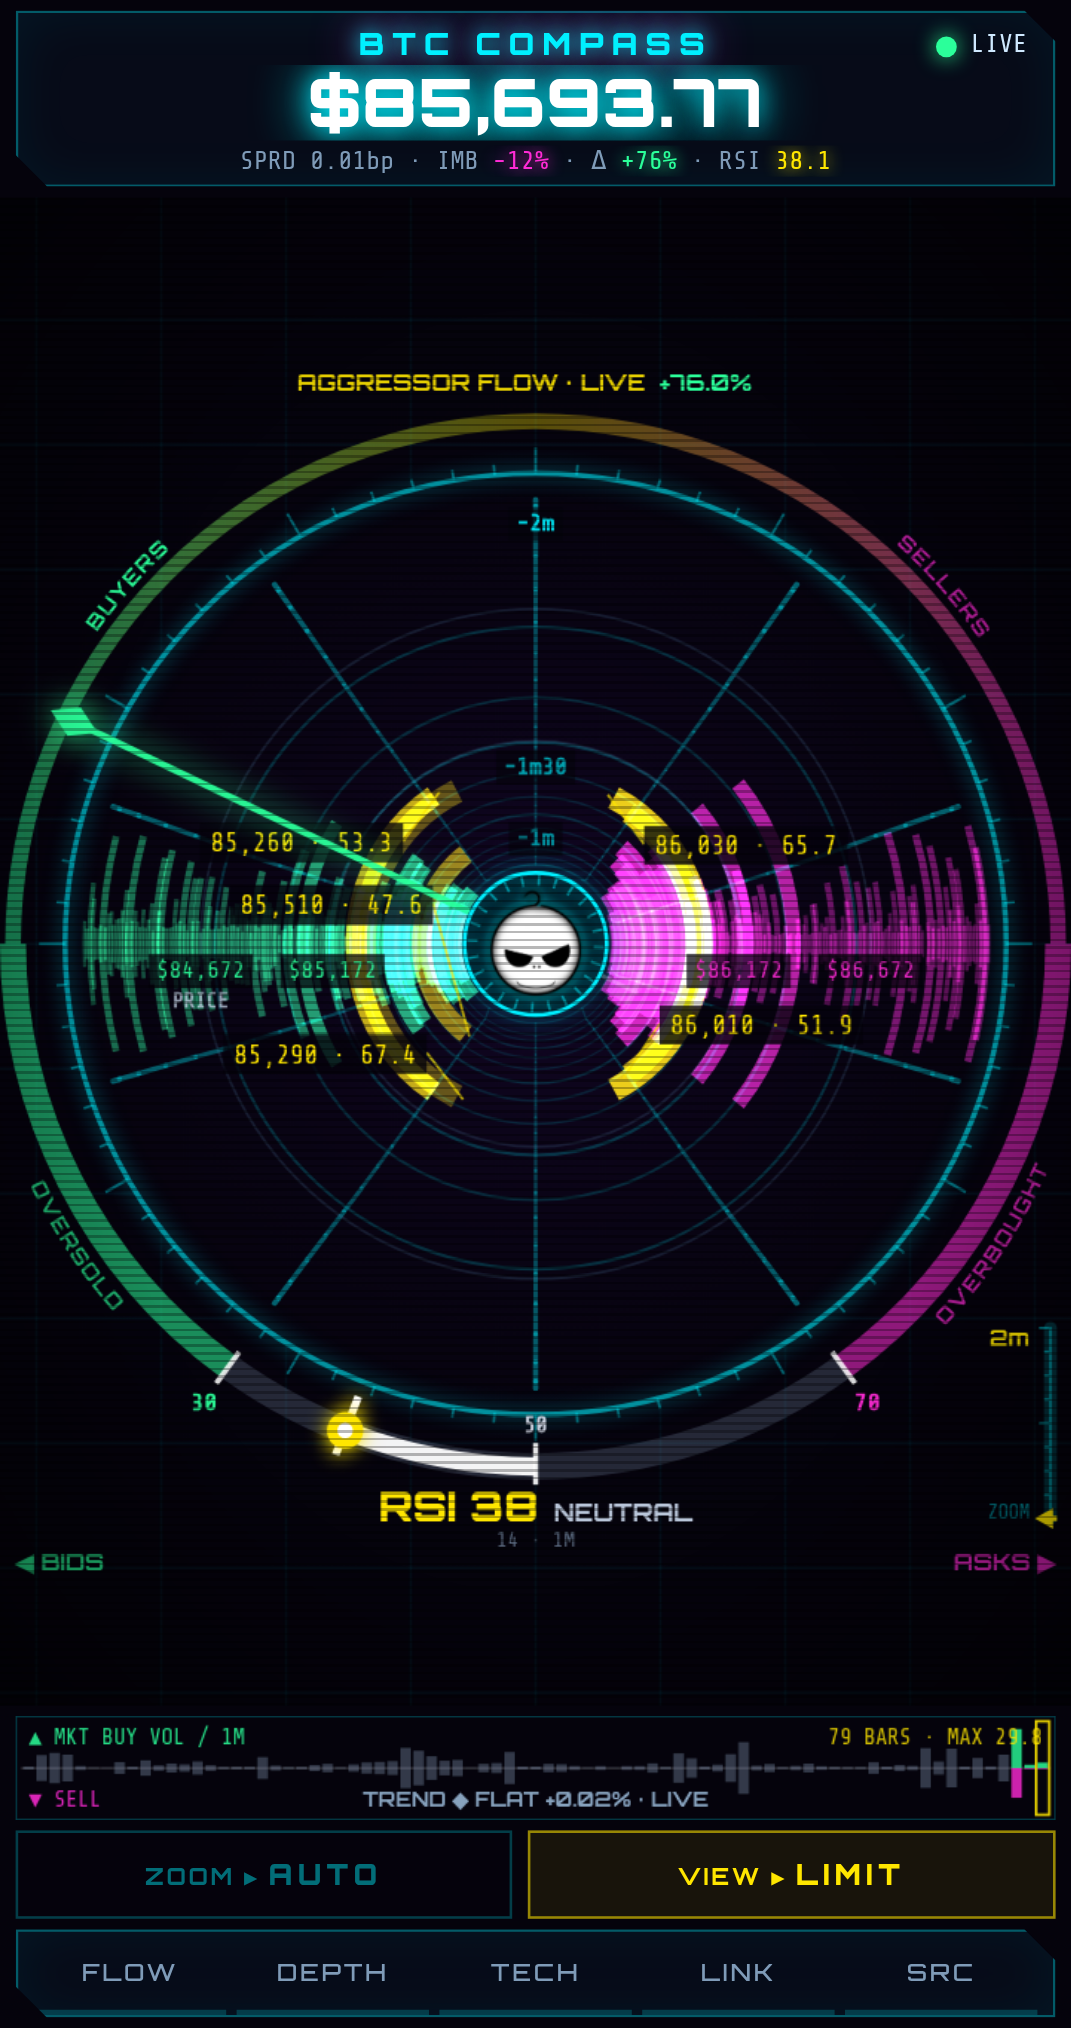
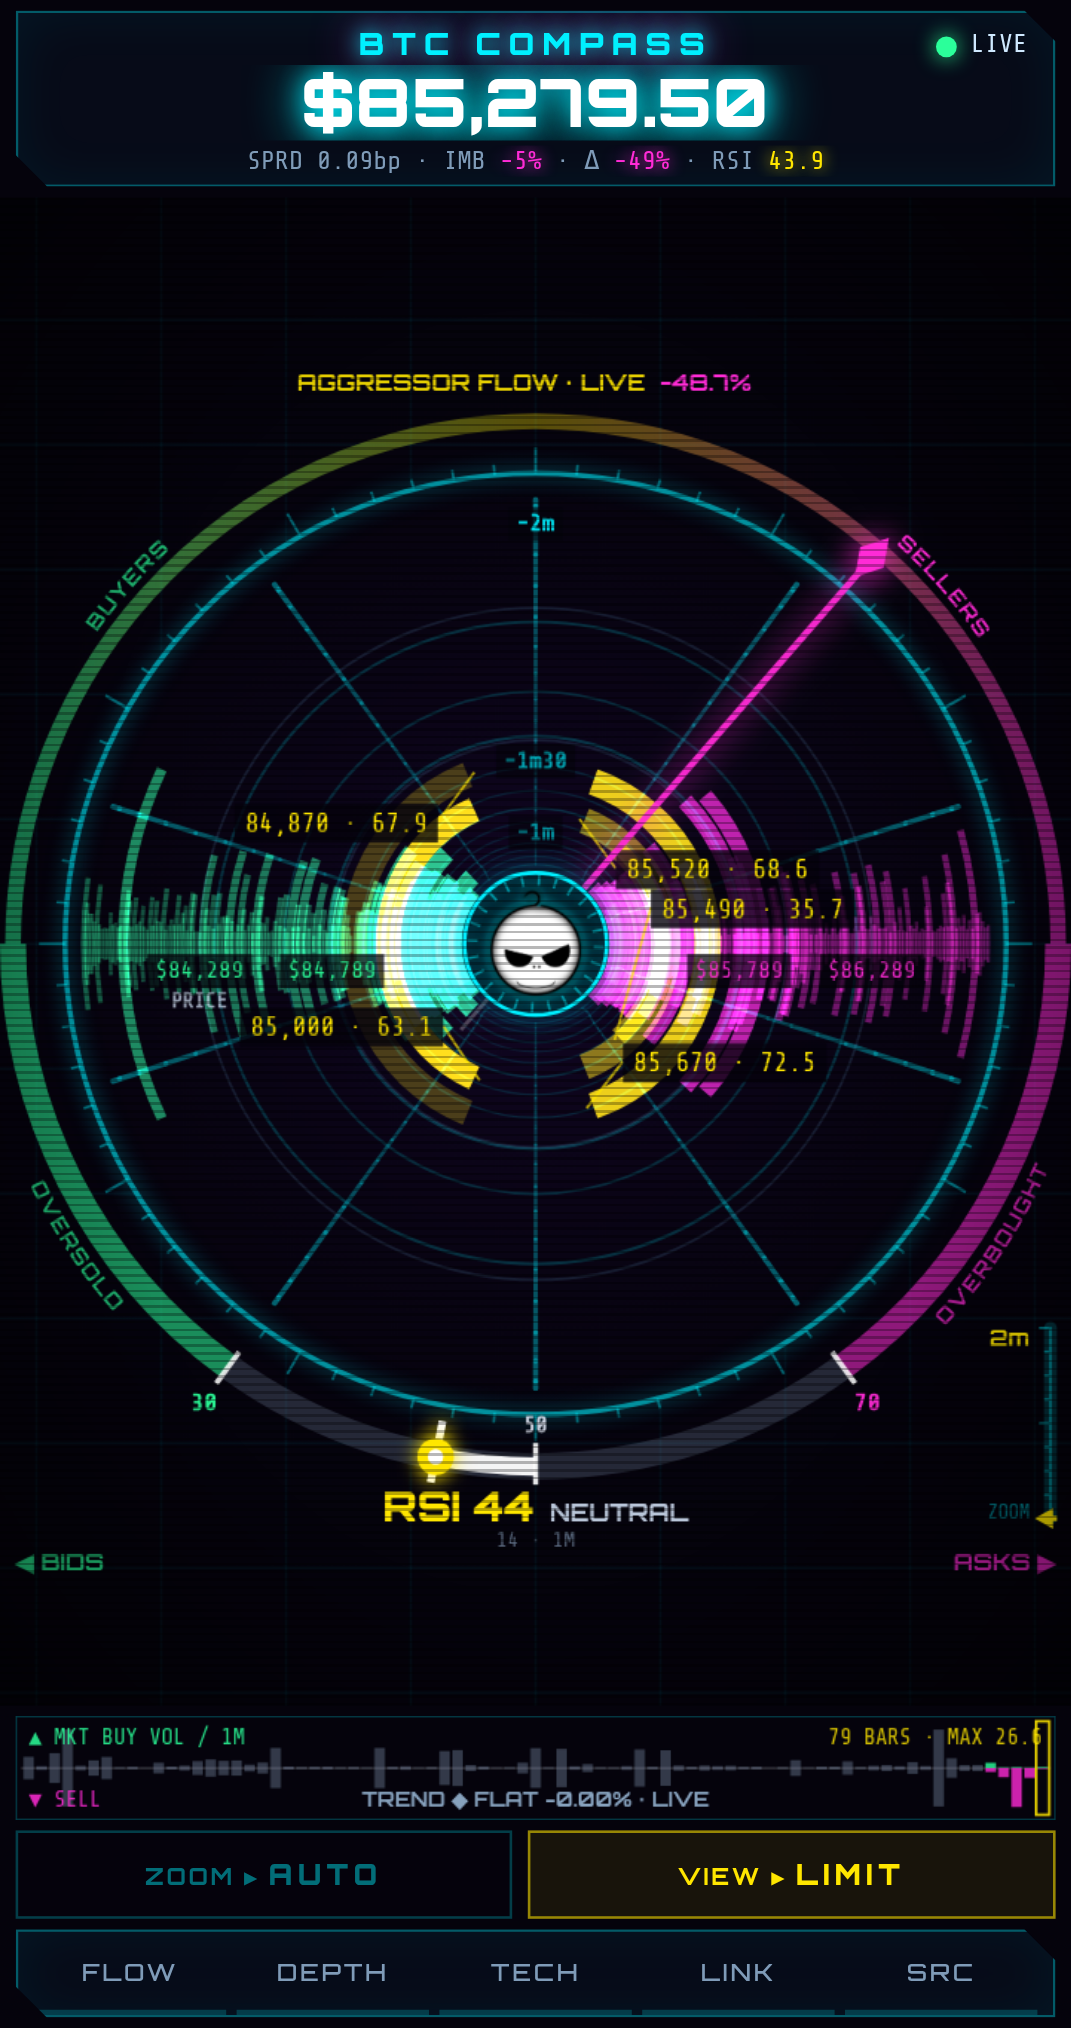
MARKET: burst sparks, thicker trail glow, symmetric AUTO vortex response; AUTO off -> zoom fully out

diff --git a/index.html b/index.html
@@ -3,7 +3,7 @@
 <head>
 <meta charset="utf-8">
 <meta http-equiv="Cache-Control" content="no-cache, no-store, must-revalidate"><meta http-equiv="Pragma" content="no-cache"><meta http-equiv="Expires" content="0">
-<script>window.OFC_BUILD='20261002-1106';(function(){try{if(!/^https?:/.test(location.protocol))return;fetch(location.pathname+'?_='+Date.now(),{cache:'no-store'}).then(r=>r.text()).then(t=>{const m=t.match(/OFC_BUILD='([^']+)'/);if(m&&m[1]!==window.OFC_BUILD&&sessionStorage.getItem('ofcB')!==m[1]){sessionStorage.setItem('ofcB',m[1]);location.replace(location.pathname+'?v='+m[1]+location.hash);}}).catch(()=>{});}catch(e){}})();</script>
+<script>window.OFC_BUILD='20261002-1220';(function(){try{if(!/^https?:/.test(location.protocol))return;fetch(location.pathname+'?_='+Date.now(),{cache:'no-store'}).then(r=>r.text()).then(t=>{const m=t.match(/OFC_BUILD='([^']+)'/);if(m&&m[1]!==window.OFC_BUILD&&sessionStorage.getItem('ofcB')!==m[1]){sessionStorage.setItem('ofcB',m[1]);location.replace(location.pathname+'?v='+m[1]+location.hash);}}).catch(()=>{});}catch(e){}})();</script>
 <meta name="viewport" content="width=device-width,initial-scale=1,viewport-fit=cover,user-scalable=no">
 <meta name="theme-color" content="#05030c">
 <meta name="color-scheme" content="dark">
@@ -247,6 +247,8 @@ const book={bids:new Map(), asks:new Map(), ready:false};
 let sortedB=[], sortedA=[];                 // COMBINED [[p,q]] bids desc, asks asc (all venues or the selected one)
 let kB=[], kA=[];                           // Kraken's own book (for its CRC32 checksum)
 let mid=0, dispMid=0, bestBid=0, bestAsk=0;
+let SIM={on:false,base:0,t0:0,dir:0,amp:0,ramp:1};const simOff=()=>SIM.dir?SIM.dir*SIM.amp*Math.min(1,Math.max(0,(Date.now()-SIM.t0)/SIM.ramp)):0;
+const simPx=p=>SIM.on?SIM.base+simOff():p;   // test-only: replace prices with a synthetic flat/ramp path   // test-only synthetic price move (0 unless __ofc.simMove)
 let trades=[];                              // {t,side,qty,px}
 let bubbles=[];                             // {t,side,qty,px,ang,whale,usd}
 let sparks=[], shocks=[];
@@ -400,11 +402,11 @@ function processTrades(list,replay){
   // aggregate fills of one batch by side+price (Bookmap-style)
   const agg=new Map();
   for(const t of list){
-    const side=t.side, px=t.px, qty=t.qty, ts=t.ts;
+    const side=t.side, px=simPx(t.px), qty=t.qty, ts=t.ts;
     if(addSplit(t.v+':'+t.id,ts,side,qty,px)===false)continue;
     trades.push({t:Math.min(ts,dnow),side,qty,px,v:t.v});
     heatAdd(px,side,qty,Math.max(0,(dnow-ts)/1000));
-    if(!replay&&dnow-ts<3000){impacts.push({t:pnow,px,side,qty});if(impacts.length>60)impacts.shift();}
+    if(!replay&&dnow-ts<3000){impacts.push({t:pnow,px,side,qty,life:burst.on?1150:700,bu:burst.on});if(impacts.length>60)impacts.shift();}
     if(!replay){tradeCount++; lastTrade={side,px,qty,v:t.v};}
     const k=side+px; const a=agg.get(k);
     if(a){a.qty+=qty;}else agg.set(k,{side,px,qty,id:hashStr(t.v+t.id),ts,v:t.v});
@@ -468,7 +470,7 @@ function combine(){
   sortedB=[...bm.entries()].filter(x=>x[0]<M).sort((x,y)=>y[0]-x[0]);sortedA=[...am.entries()].filter(x=>x[0]>M).sort((x,y)=>x[0]-y[0]);
   if(sortedB.length>200)sortedB.length=200;if(sortedA.length>200)sortedA.length=200;
   if(!sortedB.length||!sortedA.length||!rb||ra===Infinity){BREADY=false;return;}
-  bestBid=rb;bestAsk=ra;mid=one?(rb+ra)/2:M;if(!dispMid)dispMid=mid;BREADY=true;
+  bestBid=rb;bestAsk=ra;mid=simPx(one?(rb+ra)/2:M);if(!dispMid)dispMid=mid;BREADY=true;
 }
 setInterval(()=>{if(combDirty)combine();},LOWDEV()?250:150);
 function LOWDEV(){return matchMedia('(pointer:coarse)').matches;}
@@ -1277,7 +1279,7 @@ function drawTrail(now){
     const r=RMAX*KO*s+off, th=ang(age);   // head (f=0) = newest trade -> off 0 -> rides the outer ring
     let x=p.x+Math.cos(th)*r, y=p.y+Math.sin(th)*r;
     {const dx=x-CX,dy=y-CY,d=Math.hypot(dx,dy),m=RMAX*0.995,k0=0.9*m;if(d>k0){const dd=k0+(m-k0)*Math.tanh((d-k0)/(m-k0));x=CX+dx*dd/d;y=CY+dy*dd/d;}}   // soft outer edge
-    if(WIG.length<4000)WIG.push(off);
+    if(WIG.length<4000)WIG.push(off); if(f===3||f===8)(window.__ofcR=window.__ofcR||{})['o'+f]=off;
     return {x,y,s,u};};
   const SUB=MWIN<=20?10:MWIN<=45?6:MWIN<=90?4:3, sub=a=>{const o=[];for(let j=0;j<=SUB;j++)o.push(pt(a+j/SUB));return o;};
   const P=[];for(let a=0;a<=NW;a++)P.push(pt(a));
@@ -1292,15 +1294,17 @@ function drawTrail(now){
   // centreline spine: thin continuous track that fades into the vanishing point
   ctx.lineWidth=1;
   const S=[];for(let a=0;a<P.length-1;a++)S.push(sub(a));
-  for(const [lw,al] of [[5,0.12],[1.4,0.7]]){ctx.lineWidth=lw;
+  for(const [lw,al] of (LOW?[[10,0.10],[4.5,0.16],[1.6,0.75]]:[[14,0.07],[8,0.12],[4,0.18],[1.6,0.75]])){ctx.lineWidth=lw*Math.max(0.8,RMAX/400);
     for(let a=0;a<S.length;a++){const q=S[a];ctx.strokeStyle=`rgba(0,240,255,${(al*Math.pow(P[a].u,0.8)).toFixed(3)})`;
       ctx.beginPath();ctx.moveTo(q[0].x,q[0].y);for(let j=1;j<q.length;j++)ctx.lineTo(q[j].x,q[j].y);ctx.stroke();}}
   // volume ribbon: colour = buy/sell dominance, width = volume; thins and fades with depth
   ctx.globalCompositeOperation='lighter';
   for(let a=P.length-2;a>=0;a--){const b=trail[a],v=b.bs+b.ss;if(v<=0)continue;
     const rel=Math.sqrt(v/vref),c=mixCol((b.bs-b.ss)/v),p0=P[a],p1=P[a+1],u=p0.u;if(u<=0.01)continue;
-    const ht=hot[a]; ctx.strokeStyle=rgba(c,Math.min(1,(0.4+0.45*rel+0.45*ht)*Math.pow(u,0.9)));ctx.lineWidth=(2.4+RMAX*0.07*rel+RMAX*0.05*ht)*(0.12+0.88*u);
-    if(Q>0&&(rel>0.35||ht>0.3)&&u>0.3){ctx.shadowColor=rgba(c,1);ctx.shadowBlur=(12*rel+18*ht*(0.7+0.3*pulse))*u;}else ctx.shadowBlur=0;
+    const ht=hot[a],LW=(2.4+RMAX*0.07*rel+RMAX*0.05*ht)*(0.12+0.88*u);
+    {const q=S[a];ctx.shadowBlur=0;ctx.strokeStyle=rgba(c,(0.16*Math.pow(u,0.9)).toFixed(3));ctx.lineWidth=LW*2.4+6*(0.3+0.7*u);ctx.beginPath();ctx.moveTo(q[0].x,q[0].y);for(let j=1;j<q.length;j++)ctx.lineTo(q[j].x,q[j].y);ctx.stroke();}   // wide soft glow underlay
+    ctx.strokeStyle=rgba(c,Math.min(1,(0.4+0.45*rel+0.45*ht)*Math.pow(u,0.9)));ctx.lineWidth=LW;
+    if(Q>0&&(rel>0.25||ht>0.3)&&u>0.3){ctx.shadowColor=rgba(c,1);ctx.shadowBlur=(18*rel+26*ht*(0.7+0.3*pulse))*u;}else ctx.shadowBlur=0;
     {const q=S[a];ctx.beginPath();ctx.moveTo(q[0].x,q[0].y);for(let j=1;j<q.length;j++)ctx.lineTo(q[j].x,q[j].y);ctx.stroke();}}
   ctx.shadowBlur=0;
   // bloom + twinkling sparks where the trail crosses the most-traded levels
@@ -1314,12 +1318,14 @@ function drawTrail(now){
     TRHOT.push({a,key:trailT-a*1000*trailStep,x:p.x,y:p.y,ht,u:p.u,px:b.Ps,v:HT[a],c:b.bs>=b.ss?COL.bid:[255,59,107]});}
   TRHEAD={x:P[0].x,y:P[0].y};TRP=P;
   // fresh prints burst as short sparks from the head (NOW)
-  impacts=impacts.filter(m=>now-m.t<700);
-  for(const m of impacts){const k=(now-m.t)/700,c=m.side==='buy'?COL.bid:COL.ask,big=Math.min(1,Math.sqrt(m.qty*(m.px||1)/whaleUSD));if(big<0.08)continue;
+  impacts=impacts.filter(m=>now-m.t<(m.life||700));
+  for(const m of impacts){const k=(now-m.t)/(m.life||700),c=m.side==='buy'?COL.bid:COL.ask,big=Math.min(1,Math.sqrt(m.qty*(m.px||1)/whaleUSD));if(big<0.08)continue;
     const th=(m.t*0.0137)%(Math.PI*2),d0=R0*(0.15+0.9*k),d1=d0+R0*(0.25+0.8*big)*(1-k),HX=TRHEAD.x,HY=TRHEAD.y;
-    ctx.strokeStyle=rgba(c,0.9*(1-k));ctx.lineWidth=1+2*big;ctx.shadowColor=rgba(c,1);ctx.shadowBlur=Q>0?10:0;
+    const BU=m.bu?1:0;ctx.strokeStyle=rgba(BU?[Math.min(255,c[0]+90),Math.min(255,c[1]+90),Math.min(255,c[2]+90)]:c,(BU?1:0.9)*(1-k));ctx.lineWidth=(1+2*big)*(1+0.8*BU);ctx.shadowColor=rgba(c,1);ctx.shadowBlur=Q>0?10+10*BU:0;
+    if(BU&&!m.sp){m.sp=1;spawnBP(m,c,big);}
     ctx.beginPath();ctx.moveTo(HX+Math.cos(th)*d0,HY+Math.sin(th)*d0);ctx.lineTo(HX+Math.cos(th)*d1,HY+Math.sin(th)*d1);ctx.stroke();}
   ctx.shadowBlur=0;
+  drawBP(now);
   // whale nodes: small bright dots along the trail
   trail.forEach((b,a)=>{if(!b.wh||a>=P.length)return;const p=P[a];if(p.u<=0.03)return;const c=b.wh.side==='buy'?COL.bid:COL.ask;
     const r=(1.8+Math.min(4,1.6*Math.sqrt(b.wh.usd/whaleUSD)))*(0.4+0.6*p.u);
@@ -1330,6 +1336,20 @@ function drawTrail(now){
   ctx.shadowBlur=0;ctx.globalCompositeOperation='source-over';
   ctx.restore();
 }
+// burst particles (MARKET, only while a volume burst is active): more, bigger, brighter, longer-lived sparks flung from the head
+let BP=[],BPt=0;
+function spawnBP(m,c,big){const n=Math.round((LOW?5:11)*(0.6+big)),sc=RMAX/400;
+  for(let i=0;i<n;i++){const a=Math.random()*Math.PI*2,v=(60+Math.random()*190)*sc*(0.7+0.6*big);
+    BP.push({x:TRHEAD.x,y:TRHEAD.y,vx:Math.cos(a)*v,vy:Math.sin(a)*v,t0:performance.now(),life:900+Math.random()*900,sz:(1.4+Math.random()*2.2)*(0.8+0.5*big)*Math.max(0.8,sc),c});}
+  const CAP=LOW?140:420;if(BP.length>CAP)BP.splice(0,BP.length-CAP);}
+function drawBP(now){const dt=BPt?Math.min(0.05,(now-BPt)/1000):0;BPt=now;if(!BP.length)return;
+  BP=BP.filter(p=>now-p.t0<p.life);const dr=Math.exp(-dt*1.6);
+  ctx.save();ctx.globalCompositeOperation='lighter';ctx.lineCap='round';
+  for(const p of BP){p.x+=p.vx*dt;p.y+=p.vy*dt;p.vx*=dr;p.vy*=dr;const k=(now-p.t0)/p.life,al=Math.pow(1-k,1.3),c=p.c;
+    const tx=p.x-p.vx*0.07,ty=p.y-p.vy*0.07;
+    ctx.strokeStyle=rgba(c,(0.35*al).toFixed(3));ctx.lineWidth=p.sz*3.2*(1-0.5*k);ctx.beginPath();ctx.moveTo(tx,ty);ctx.lineTo(p.x,p.y);ctx.stroke();   // soft glow
+    ctx.strokeStyle=`rgba(255,255,255,${(0.95*al).toFixed(3)})`;ctx.lineWidth=p.sz*(1-0.5*k);ctx.beginPath();ctx.moveTo(tx,ty);ctx.lineTo(p.x,p.y);ctx.stroke();}   // hot core
+  ctx.restore();}
 // glowing head (NOW) riding the compass's outer ring; drawn outside the dial clip, glow capped below the gauge arcs/ring labels
 // MARKET: hub + head tag both show the LAST trade (current source filter) so they always match; LIMIT hub = MID
 const hubPx=()=>VIEW==='market'&&trades.length?trades[trades.length-1].px:mid;
@@ -1390,7 +1410,7 @@ function drawZoomBar(now){
 // tap/drag the bar to set zoom (touch + mouse); stays out of pinch / double-tap handling
 let zDrag=false, pillT=0;
 function pillHit(px,py){const Z=zbarGeom();return !!(Z&&Z.pw&&px>Z.px-6&&px<Z.px+Z.pw+6&&py>Z.py-6&&py<Z.py+Z.ph+6);}
-function pillTap(){const n=performance.now();if(n-pillT<450)return;pillT=n;intro=null;if(rangeAuto)rangeFrac=dispRange;setAuto(!rangeAuto);syncZA();}
+function pillTap(){const n=performance.now();if(n-pillT<450)return;pillT=n;intro=null;if(rangeAuto)rangeFrac=ZMAX;setAuto(!rangeAuto);syncZA();}   // AUTO off -> ease to fully zoomed out (MARKET 60 s / LIMIT 2 m) until the user zooms
 function syncZA(){const b=$('zauto');if(b&&b.classList.contains('lit')!==rangeAuto)b.classList.toggle('lit',rangeAuto);}
 $('zauto').onclick=()=>{pillTap();};  // ON snaps back to auto-fit
 function zHit(px,py){const Z=zbarGeom();return Z&&Math.abs(px-Z.x)<18&&py>Z.y0-14&&py<Z.y1+8?Z:null;}
@@ -1472,13 +1492,13 @@ function frame(){
       if(intro.set!=null&&(rangeAuto||rangeFrac!==intro.set))intro=null;          // user zoomed (pinch/wheel/bar/double-tap) -> cancel
       else{if(!intro.t0)intro.t0=now; const p=Math.min(1,(now-intro.t0)/INTRO_MS), e=p<0.5?4*p*p*p:1-Math.pow(-2*p+2,3)/2;
         rangeAuto=false; rangeFrac=ZMIN*Math.pow(ZMAX/ZMIN,e); dispRange=rangeFrac; intro.set=rangeFrac; if(p>=1)intro=null;}}
-    if(!intro){if(VIEW==='market'&&rangeAuto){const ZE=burst.on?0.08:(Date.now()-burst.rel<7000?0.022:0.05);dispRange*=Math.exp(Math.log(rangeFrac/dispRange)*ZE);}else dispRange+=(rangeFrac-dispRange)*0.05;}   // MARKET AUTO: log-space ease (burst: quick snap in; release: slow ease out)   // burst: fast smooth snap in; release: slow ease out dispMid+=(mid-dispMid)*0.2;
+    if(!intro){if(VIEW==='market'&&rangeAuto){const ZE=(burst.on||rangeFrac<dispRange)?0.08:(Date.now()-burst.rel<7000?0.022:0.05);/* symmetric: price-driven zoom-in snaps exactly like a volume burst, so up/down react identically regardless of volume */dispRange*=Math.exp(Math.log(rangeFrac/dispRange)*ZE);}else dispRange*=Math.exp(Math.log(rangeFrac/dispRange)*0.06);}   // manual: log-space ease (window is log-mapped -> smooth)   // MARKET AUTO: log-space ease (burst: quick snap in; release: slow ease out)   // burst: fast smooth snap in; release: slow ease out dispMid+=(mid-dispMid)*0.2;
   }
   ctx.fillStyle='rgba(5,3,12,1)';ctx.fillRect(0,0,W,H);
   const bg=ctx.createRadialGradient(CX,CY,0,CX,CY,RMAX*1.6);bg.addColorStop(0,'rgba(30,10,60,.55)');bg.addColorStop(1,'rgba(5,3,12,0)');ctx.fillStyle=bg;ctx.fillRect(0,0,W,H);
   updateFocal(); MWIN=VIEW==='market'?mWinOf(dispRange):MWMAX; LWIN=VIEW==='limit'?lWinOf(dispRange):HIST_SEC;
   if(VIEW==='market'){ // vortex spin: eased speed 0..1 ramps with zoom (0 at 60 s -> 1 at 15 s; burst snap in AUTO = 1); counter-clockwise (head runs clockwise)
-    const zr=Math.max(0,Math.min(1,(MWMAX-MWIN)/(MWMAX-WMIN))), zk=zr*zr*(3-2*zr), tgt=Math.max(zk,burst.on&&rangeAuto?1:0);
+    const WT=rangeAuto?Math.min(MWIN,mWinOf(rangeFrac)):MWIN, zr=Math.max(0,Math.min(1,(MWMAX-WT)/(MWMAX-WMIN))), zk=zr*zr*(3-2*zr), tgt=Math.max(zk,burst.on&&rangeAuto?1:0);
     const dt=VSP.t?Math.min(0.1,Math.max(0,(now-VSP.t)/1000)):0; VSP.t=now; VSP.w+=(tgt-VSP.w)*Math.min(1,dt*1.6); VSP.ph-=VSP.w*0.75*dt;   // max ~0.75 rad/s CCW
   } else {VSP.w=0;VSP.t=0;}
   updatePath(now);
@@ -1504,7 +1524,7 @@ function frame(){
 connect();seedREST();
 requestAnimationFrame(frame);
 document.addEventListener('visibilitychange',()=>{if(!document.hidden&&(!ws||ws.readyState>1)){backoff=1000;connect();}});
-window.__ofc={get hubLogo(){return !WIDE&&LOGO.complete&&LOGO.naturalWidth>0},get hdrLogo(){const e=document.querySelector('#top .logo');return !!e&&getComputedStyle(e).display!=='none'},get flares(){return VIEW==='market'?[...FLR.entries()].map(([k,F])=>{const p=F.dx!=null?{x:F.dx,y:F.dy}:null;return {k,T:F.T,tT:trailT,st:trailStep,w:+F.w.toFixed(2),on:!!F.on,side:F.c===COL.bid?'bid':'ask',x:p?Math.round(p.x):null,y:p?Math.round(p.y):null};}):null},winTo(S){intro=null;setAuto(false);syncZA();let lo=0,hi=1;const f=u=>mWinOf(zR(u));const dec=f(0)>f(1);for(let i=0;i<40;i++){const m=(lo+hi)/2;if((f(m)>S)===dec)lo=m;else hi=m;}rangeFrac=zR((lo+hi)/2);return f((lo+hi)/2);},get vring(){if(VIEW!=='market')return null;const p=proj(HIST_SEC);return {full:+(RMAX*p.s).toFixed(1),r:+(RMAX*p.s).toFixed(1),x:Math.round(p.x),y:Math.round(p.y),R0:Math.round(R0)}},get twist(){return VIEW==='market'?+(TWIST_MAX*VSP.w*180/Math.PI).toFixed(1):0},get spin(){return {w:+VSP.w.toFixed(3),ph:+VSP.ph.toFixed(3)}},zManual(){intro=null;setAuto(false);syncZA();},get burst(){return {...burst,now:Date.now()}},simBurst(usd){const px=trades.length?trades[trades.length-1].px:mid,n=Date.now();for(let k=0;k<8;k++)trades.push({t:n-(7-k)*300,side:k%2?'sell':'buy',qty:usd/8/px,px,v:'kraken'});trailDirty=true;},get auto(){return rangeAuto},zAuto(){intro=null;setAuto(true);syncZA();},zIn(){intro=null;setAuto(false);rangeFrac=zR(1);syncZA();},get mwin(){return +MWIN.toFixed(1)},get lwin(){return +LWIN.toFixed(1)},get prange(){return PRANGE},get disp(){return dispRange},get plbl(){return PLBL.map(q=>q.txt)},get hubTxt(){return mid?hubTxt():null},get head(){return {x:Math.round(TRHEAD.x),y:Math.round(TRHEAD.y),CX,CY,R0:Math.round(R0),RMAX:Math.round(RMAX)}},get logo(){const g=logoGeom();return g&&{x:Math.round(g.x),y:Math.round(g.y),S:g.S,CX,CY,RMAX,W,H,Z:zbarGeom()}},get ven(){return Object.fromEntries(Object.entries(VEN).map(([k,v])=>[k,{st:v.st,share:+v.share.toFixed(3),books:BOOKS.filter(B=>B.v===k).map(B=>({k:B.k,ready:B.ready,n:B.b.size+B.a.size,ck:B.ckOk,ckBad:B.ckBad,resyncs:B.resyncs}))}]))},get src(){return SRC},setSource,get comb(){return {ready:BREADY,mid,bestBid,bestAsk,nb:sortedB.length,na:sortedA.length}},get raw(){return RAW.length},get flow(){const f=flow(30);return {b:Math.round(f.b),s:Math.round(f.s),r:+f.r.toFixed(3)}},get trendW(){return trendWin()},get win(){return winSec},get heatN(){return Object.fromEntries(Object.entries(HEATS).map(([w,H])=>[w,H.m.size]))},get intro(){return intro},book,get mid(){return mid},get ck(){return {ckOk,ckBad,ckLast}},get trades(){return tradeCount},get bubbles(){return bubbles.length},get hist(){return history.length},get ind(){return ind},get candles(){return candles.size},get dir(){return INBOUND?'in':'out'},get view(){return VIEW},get layout(){return {W,H,CX,CY,RMAX,R0,WIDE}},get tunnel(){const far=proj(HIST_SEC);return {FOCAL,farScale:far.s,farY:far.y-CY,dispRange,fitFrac,rangeAuto,RMAX}},zoom(f){setAuto(false);rangeFrac=Math.min(0.08,Math.max(0.0005,rangeFrac*f));},autoZoom(){setAuto(true);},get autoOn(){return rangeAuto},get zgeom(){return zbarGeom()},get conn(){return connState},get fps(){return FPS},get q(){return Q},get rc(){return reconnects},forceDrop(){ws&&ws.close();}};
+window.__ofc={simFlat(){SIM={on:true,base:mid,t0:0,dir:0,amp:0,ramp:1};},simMove(dir,frac,ramp){SIM.t0=Date.now();SIM.dir=dir;SIM.amp=frac*SIM.base;SIM.ramp=ramp;},get resp(){const v=proj(HIST_SEC),m=proj(HIST_SEC*0.4);return {tw:+(TWIST_MAX*VSP.w*180/Math.PI).toFixed(2),vp:+(v.y-CY).toFixed(1),vm:+(m.y-CY).toFixed(1),o3:+((window.__ofcR||{}).o3||0).toFixed(1),o8:+((window.__ofcR||{}).o8||0).toFixed(1),mw:+MWIN.toFixed(1),dr:dispRange,pr:pathRef}},get bp(){return BP.length},autoOff(){pillT=0;if(rangeAuto)pillTap();},get dr(){return dispRange},get hubLogo(){return !WIDE&&LOGO.complete&&LOGO.naturalWidth>0},get hdrLogo(){const e=document.querySelector('#top .logo');return !!e&&getComputedStyle(e).display!=='none'},get flares(){return VIEW==='market'?[...FLR.entries()].map(([k,F])=>{const p=F.dx!=null?{x:F.dx,y:F.dy}:null;return {k,T:F.T,tT:trailT,st:trailStep,w:+F.w.toFixed(2),on:!!F.on,side:F.c===COL.bid?'bid':'ask',x:p?Math.round(p.x):null,y:p?Math.round(p.y):null};}):null},winTo(S){intro=null;setAuto(false);syncZA();let lo=0,hi=1;const f=u=>mWinOf(zR(u));const dec=f(0)>f(1);for(let i=0;i<40;i++){const m=(lo+hi)/2;if((f(m)>S)===dec)lo=m;else hi=m;}rangeFrac=zR((lo+hi)/2);return f((lo+hi)/2);},get vring(){if(VIEW!=='market')return null;const p=proj(HIST_SEC);return {full:+(RMAX*p.s).toFixed(1),r:+(RMAX*p.s).toFixed(1),x:Math.round(p.x),y:Math.round(p.y),R0:Math.round(R0)}},get twist(){return VIEW==='market'?+(TWIST_MAX*VSP.w*180/Math.PI).toFixed(1):0},get spin(){return {w:+VSP.w.toFixed(3),ph:+VSP.ph.toFixed(3)}},zManual(){intro=null;setAuto(false);syncZA();},get burst(){return {...burst,now:Date.now()}},simBurst(usd){const px=trades.length?trades[trades.length-1].px:mid,n=Date.now();for(let k=0;k<8;k++)trades.push({t:n-(7-k)*300,side:k%2?'sell':'buy',qty:usd/8/px,px,v:'kraken'});trailDirty=true;},get auto(){return rangeAuto},zAuto(){intro=null;setAuto(true);syncZA();},zIn(){intro=null;setAuto(false);rangeFrac=zR(1);syncZA();},get mwin(){return +MWIN.toFixed(1)},get lwin(){return +LWIN.toFixed(1)},get prange(){return PRANGE},get disp(){return dispRange},get plbl(){return PLBL.map(q=>q.txt)},get hubTxt(){return mid?hubTxt():null},get head(){return {x:Math.round(TRHEAD.x),y:Math.round(TRHEAD.y),CX,CY,R0:Math.round(R0),RMAX:Math.round(RMAX)}},get logo(){const g=logoGeom();return g&&{x:Math.round(g.x),y:Math.round(g.y),S:g.S,CX,CY,RMAX,W,H,Z:zbarGeom()}},get ven(){return Object.fromEntries(Object.entries(VEN).map(([k,v])=>[k,{st:v.st,share:+v.share.toFixed(3),books:BOOKS.filter(B=>B.v===k).map(B=>({k:B.k,ready:B.ready,n:B.b.size+B.a.size,ck:B.ckOk,ckBad:B.ckBad,resyncs:B.resyncs}))}]))},get src(){return SRC},setSource,get comb(){return {ready:BREADY,mid,bestBid,bestAsk,nb:sortedB.length,na:sortedA.length}},get raw(){return RAW.length},get flow(){const f=flow(30);return {b:Math.round(f.b),s:Math.round(f.s),r:+f.r.toFixed(3)}},get trendW(){return trendWin()},get win(){return winSec},get heatN(){return Object.fromEntries(Object.entries(HEATS).map(([w,H])=>[w,H.m.size]))},get intro(){return intro},book,get mid(){return mid},get ck(){return {ckOk,ckBad,ckLast}},get trades(){return tradeCount},get bubbles(){return bubbles.length},get hist(){return history.length},get ind(){return ind},get candles(){return candles.size},get dir(){return INBOUND?'in':'out'},get view(){return VIEW},get layout(){return {W,H,CX,CY,RMAX,R0,WIDE}},get tunnel(){const far=proj(HIST_SEC);return {FOCAL,farScale:far.s,farY:far.y-CY,dispRange,fitFrac,rangeAuto,RMAX}},zoom(f){setAuto(false);rangeFrac=Math.min(0.08,Math.max(0.0005,rangeFrac*f));},autoZoom(){setAuto(true);},get autoOn(){return rangeAuto},get zgeom(){return zbarGeom()},get conn(){return connState},get fps(){return FPS},get q(){return Q},get rc(){return reconnects},forceDrop(){ws&&ws.close();}};
 })();
 </script>
 </body>
